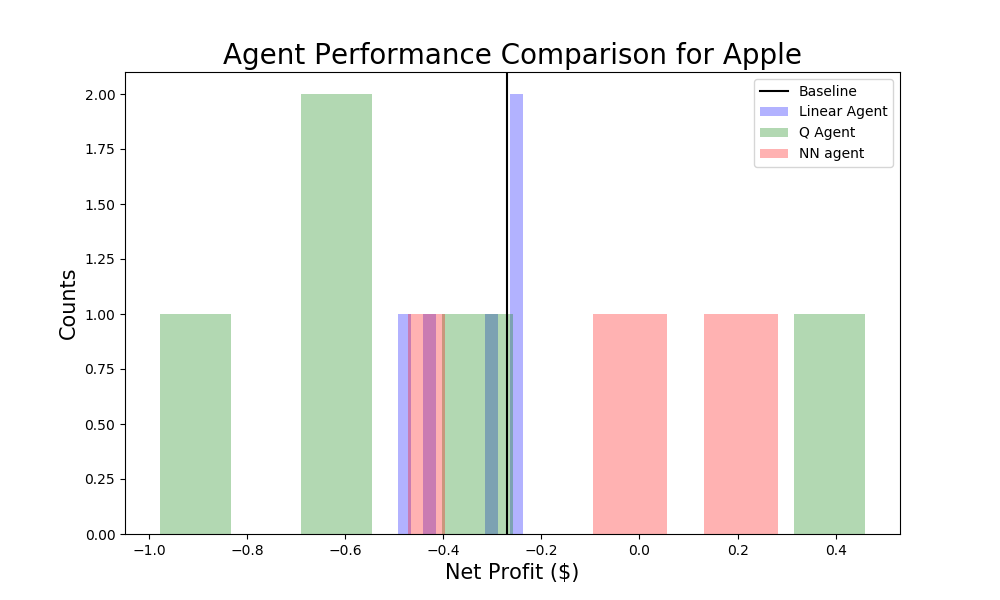
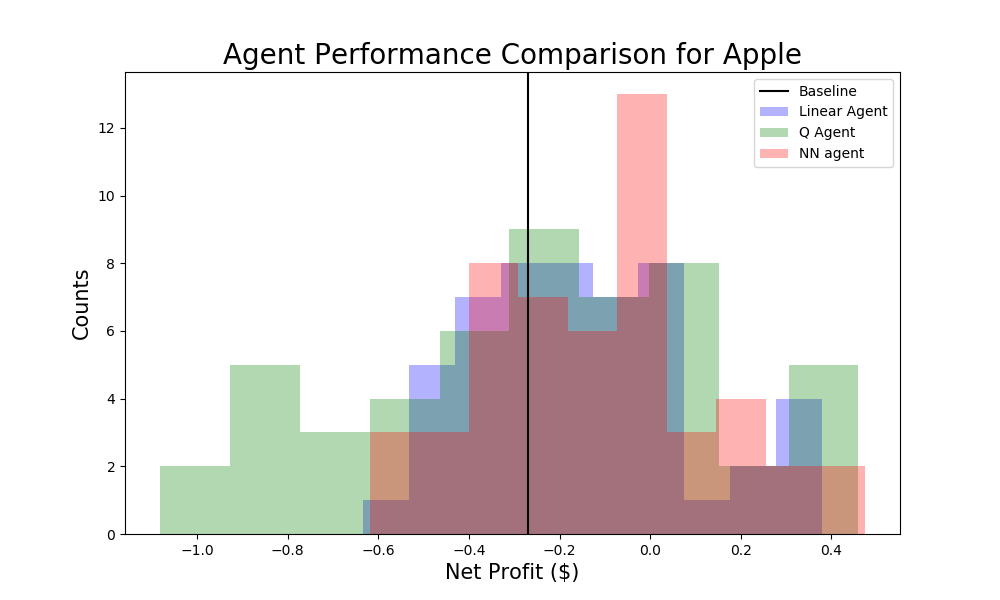
apple eval

diff --git a/agent_evaluation.py b/agent_evaluation.py
@@ -20,7 +20,7 @@ from Q_agent.mdp import MDP, TabularQ, Q_learn, epsilon_greedy
 
 
 # Parameter Initializations
-company = "Amazon"
+company = "Apple"
 path = 'histories/{}_cleaned.csv'.format(company)
 window_size = 5  # time window size
 history_size = 3  # number of previous days to consider
